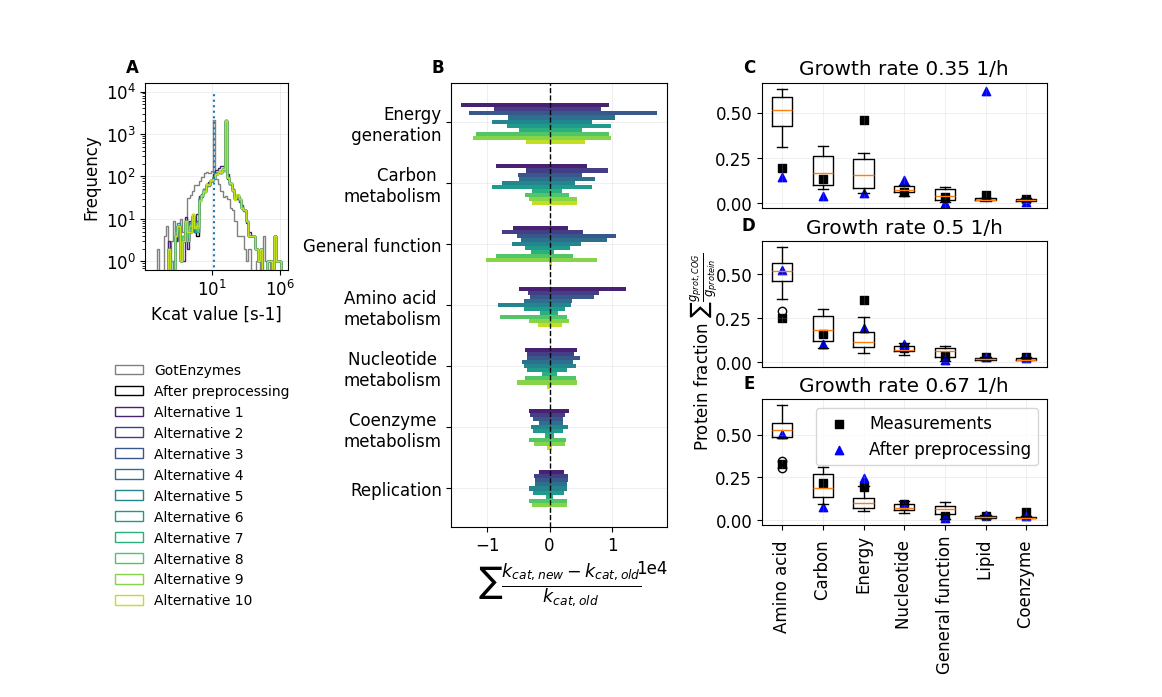
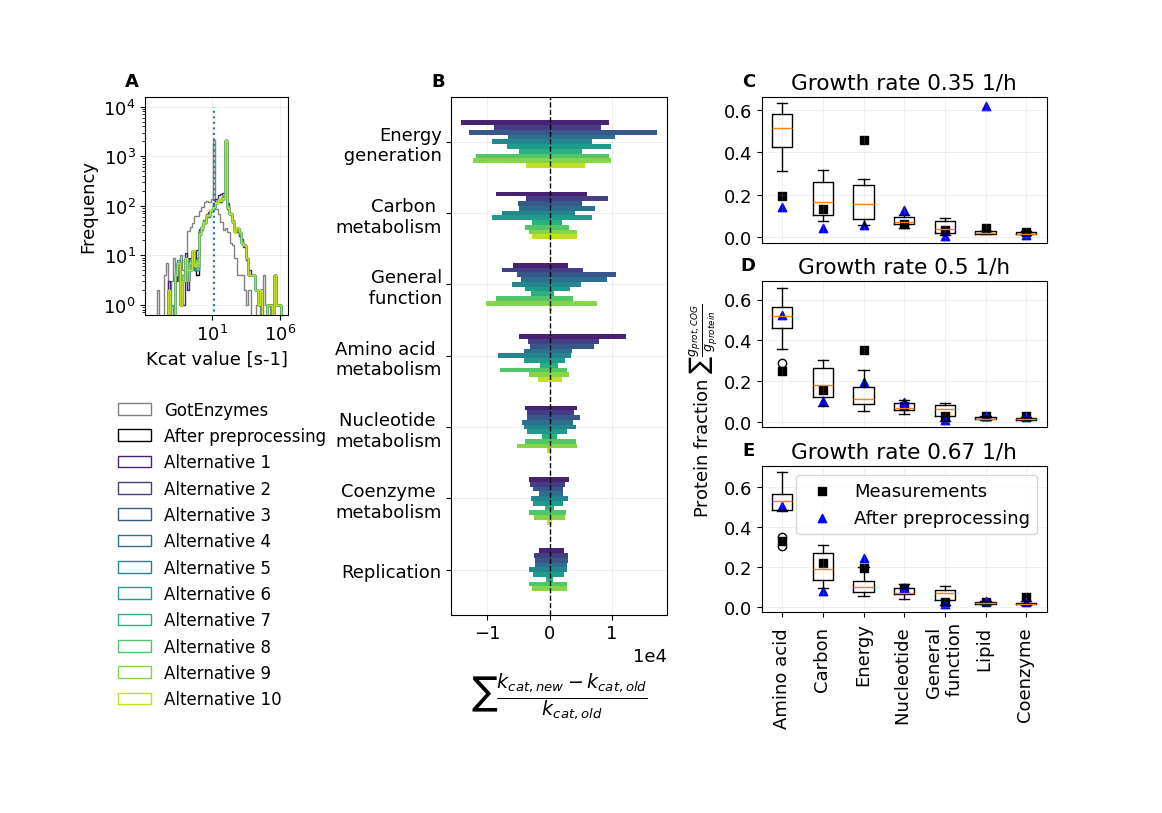
figures: made fontsize of fig 3 larger

diff --git a/Figures/Scripts/Figure3_kcat_protein_analysis.py b/Figures/Scripts/Figure3_kcat_protein_analysis.py
@@ -38,7 +38,7 @@ COG_MAPPER = {'Amino acid transport and metabolism': 'Amino acid metabolism',
        'Coenzyme transport and metabolism': 'Coenzyme metabolism',
               'Defense mechanisms':'Defense mechanisms',
        'Energy production and conversion': 'Energy\n generation', 'Function unknown': 'Function unknown',
-       'General function prediction only': 'General function',
+       'General function prediction only': 'General\n function',
        'Inorganic ion transport and metabolism': 'Inorganic ion metabolism',
        'Intracellular trafficking, secretion, and vesicular transport': 'Intracellular transport',
        'Lipid transport and metabolism': 'Lipid metabolism',
@@ -291,7 +291,7 @@ def create_cog_barplot(cog_summary_long:pd.DataFrame,
                        fontsize=fontsize)  # Set labels in sorted order
 
     # Label axes
-    ax.set_xlabel(xlabel, fontsize=fontsize * 1.5)
+    ax.set_xlabel(xlabel, fontsize=fontsize * 1.5, labelpad=20)
     # ax.set_ylabel('COG Description', fontsize=fontsize * 1.5)
     ax.grid(visible=True, alpha=0.2, linewidth=0.7)
     ax.set_axisbelow(True)
@@ -604,7 +604,7 @@ def create_proteomics_boxplots(got_enzymes_file: str,
 
 def main():
     NUM_ALT_MODELS = 10
-    FONTSIZE = 12
+    FONTSIZE = 13
     REF_PROTEOMICS_FILE = os.path.join('Data', 'Ecoli_phenotypes', 'proteome_data_extract_schmidt2016.xlsx')
     UNIPROT_INFO_FILE = os.path.join('Data', 'Databases', 'uniprotkb_ecolik12_240726.xlsx')
     PARAM_FILE_ORI = os.path.join('Results', '1_preprocessing',
@@ -629,7 +629,7 @@ def main():
         **other_colors}
 
     #create a pretty figure
-    fig = plt.figure(figsize=(30/2.58, 18/2.58))
+    fig = plt.figure(figsize=(30/2.58, 21/2.58))
     plt.rcParams.update({'font.size': FONTSIZE})
 
     # Outer GridSpec: 3 columns: kcat_histogram+legend, kcat_barchart, protein_boxplots
@@ -686,7 +686,7 @@ def main():
                 handles.extend([handle])
                 labels.extend([label])
     legend_ax.legend(handles, labels, loc="lower left",
-                     fontsize=FONTSIZE-2,ncols =1,
+                     fontsize=FONTSIZE-1,ncols =1,
                      bbox_to_anchor = (-0.3,0),
                      frameon=False)
     # ax2.legend(handles, labels, loc="lower center", ncol=round(len(labels)/2), frameon=False)
